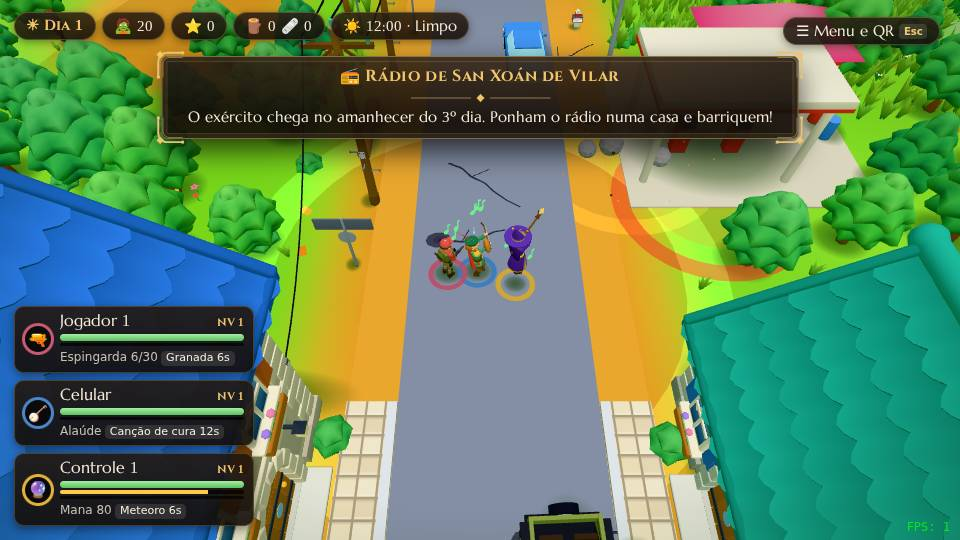
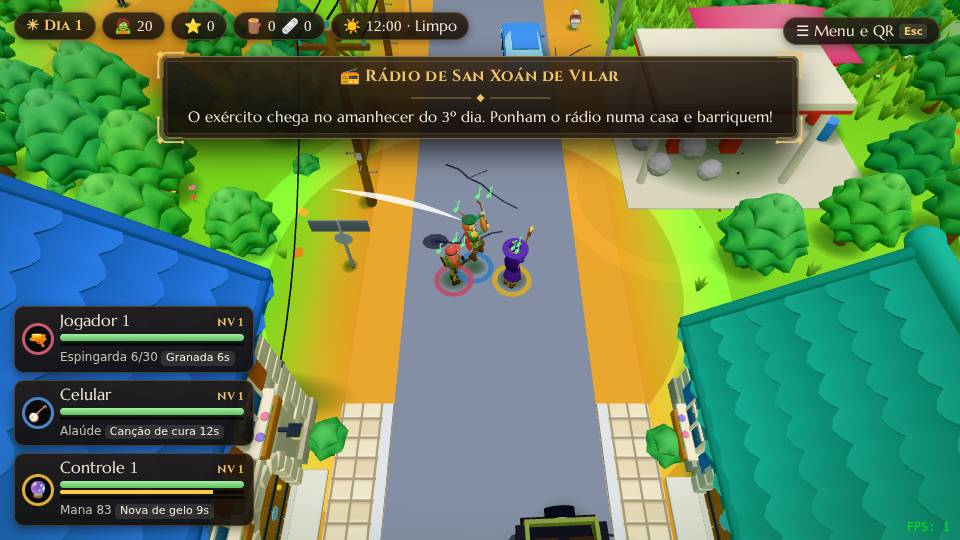
Entrar no meio da partida: nasce ao lado do grupo e o celular já vê a pausa
Antes nascia na largada (longe do grupo) e, com o menu aberto (onde fica o QR), o celular
ficava em "Entrando na sala…" até alguém fechar o menu. game.sync(id) manda o estado na hora.

diff --git a/src/games/survivor/rules/survival.js b/src/games/survivor/rules/survival.js
@@ -127,6 +127,9 @@ export function CreateGame(scene, colliders, net, hooks = {}) {
       dead: false, out: false, downT: 0, knocked: 0, chill: 0, marked: 0, vehicle: null, seat: null, pad: 0, hurtCar: 0, held: 0, struggle: 0, shoveCd: 0,
       input: { mx: 0, mz: 0, ax: 0, az: 0, run: 0 },
     }
+    // entrou no meio da partida: nasce ao lado de alguém do grupo (de pé, se houver), não na largada
+    const others = [...players.values()], buddy = others.find((o) => !o.dead) || others[0]
+    if (st.time > 0 && buddy) Object.assign(p, beside(buddy), { lv: buddy.lv || 0, gy: buddy.gy })
     InitClassState(p)
     levels.init(p)
     if (p.weapon) model.setWeapon(p.weapon)
@@ -178,15 +181,19 @@ export function CreateGame(scene, colliders, net, hooks = {}) {
     sfx('death', { x: p.x, z: p.z, cls: p.cls.id })
     fall.down(p)
   }
+  // lugar livre ao lado de alguém (mesmo andar)
+  function beside(o) {
+    for (let n = 0; n < 8; n++) {
+      const a = (n / 8) * Math.PI * 2, x = o.x + Math.sin(a) * 1.4, z = o.z + Math.cos(a) * 1.4
+      if (!Blocked(x, z, 0.5, o.lv || 0)) return { x, z }
+    }
+    return { x: o.x, z: o.z }
+  }
   // no amanhecer, quem está no chão volta ao lado de um aliado de pé (levantar ali mesmo: fall.js; o bardo levanta com a canção)
   function revive(p, list) {
     let best = list[0]
     for (const o of list) if ((o.x - p.x) ** 2 + (o.z - p.z) ** 2 < (best.x - p.x) ** 2 + (best.z - p.z) ** 2) best = o
-    let x = best.x, z = best.z
-    for (let n = 0; n < 8; n++) {
-      const a = (n / 8) * Math.PI * 2, tx = best.x + Math.sin(a) * 1.4, tz = best.z + Math.cos(a) * 1.4
-      if (!Blocked(tx, tz, 0.5, best.lv || 0)) { x = tx; z = tz; break }
-    }
+    const { x, z } = beside(best)
     Object.assign(p, { dead: false, out: false, downT: 0, hp: p.max * RU.fall.hp, x, z, vx: 0, vz: 0, jy: 0, vy: 0, lv: best.lv || 0, gy: best.gy, stamina: 100, tired: false, invulnT: RU.fall.invulnerable })
     p.model.hurt()
     fx.ring(x, best.gy || 0, z, 0x7aff9a, 0.2, 1.6, 0.7)
@@ -341,18 +348,21 @@ export function CreateGame(scene, colliders, net, hooks = {}) {
     // estado para os celulares
     if (net && (st.sync -= dt) <= 0) {
       st.sync = 0.15
-      for (const p of players.values()) {
-        if (p.id === 'local') continue
-        const inf = abilities.info(p)
-        const car = p.vehicle ? 2 : !p.dead && vehicles.nearest(p) ? 1 : 0
-        net.send(p.id, { t: 'state', hp: Math.ceil(p.hp), max: p.max, cls: `${p.cls.icon} ${p.cls.name} · Nv ${p.level}`, w: p.vehicle ? `${inf.text} · ${fuel.text(p.vehicle)}` : inf.text, btn: inf.buttons.map((b) => [b.l, +b.cd.toFixed(2)]), car, dead: p.dead, st: Math.round(p.stamina), time: Math.floor(st.time), score: st.score, held: p.held ? 1 : 0, rv: p.dead && !st.over ? (p.out ? -1 : Math.ceil(p.downT)) : 0, u: fall.label(p) || bars.label(p, true) || loot.label(p) || base.label(p) || bars.label(p) || fuel.label(p), inv: invText(), up: p.cards ? p.cards.map((u) => [`${u.icon} ${u.name}`, u.text]) : 0 })
-      }
+      for (const p of players.values()) if (p.id !== 'local') sendState(p)
     }
+  }
+  // o que o celular mostra (vida, botões, Usar, estoque, cartas…)
+  function sendState(p) {
+    const inf = abilities.info(p)
+    const car = p.vehicle ? 2 : !p.dead && vehicles.nearest(p) ? 1 : 0
+    net.send(p.id, { t: 'state', hp: Math.ceil(p.hp), max: p.max, cls: `${p.cls.icon} ${p.cls.name} · Nv ${p.level}`, w: p.vehicle ? `${inf.text} · ${fuel.text(p.vehicle)}` : inf.text, btn: inf.buttons.map((b) => [b.l, +b.cd.toFixed(2)]), car, dead: p.dead, st: Math.round(p.stamina), time: Math.floor(st.time), score: st.score, held: p.held ? 1 : 0, rv: p.dead && !st.over ? (p.out ? -1 : Math.ceil(p.downT)) : 0, u: fall.label(p) || bars.label(p, true) || loot.label(p) || base.label(p) || bars.label(p) || fuel.label(p), inv: invText(), up: p.cards ? p.cards.map((u) => [`${u.icon} ${u.name}`, u.text]) : 0 })
   }
 
   // estoque do grupo + base marcada (placar e celular)
   const invText = () => loot.text() + (base.at() ? '  📻' : '')
-  return { players, enemies, vehicles, loot, bars, base, siege, invText, st, clear, addPlayer, removePlayer, setInput, act, update, alive, zombies: () => horde.alive(), info: (p) => abilities.info(p), hurt, levels, fuel, compana, save, setCerco, cerco: cercoInfo }
+  // manda o estado na hora para um celular (ex.: entrou com o menu aberto: sem isso ficava em "Entrando na sala…")
+  const sync = (id) => { const p = players.get(id); if (net && p && id !== 'local') sendState(p) }
+  return { players, enemies, vehicles, loot, bars, base, siege, invText, st, clear, addPlayer, removePlayer, setInput, act, update, sync, alive, zombies: () => horde.alive(), info: (p) => abilities.info(p), hurt, levels, fuel, compana, save, setCerco, cerco: cercoInfo }
 }
 
 export const clock = (s) => `${String(Math.floor(s / 60)).padStart(2, '0')}:${String(Math.floor(s % 60)).padStart(2, '0')}`

diff --git a/src/games/survivor/main.js b/src/games/survivor/main.js
@@ -131,7 +131,10 @@ export async function LoadGame() {
     onJoin: (id, name) => {
       const slot = lobby.addPhone(id, name)
       if (slot < 0) return net.send(id, { t: 'kick', msg: 'Sala cheia' })
-      if (phase === 'playing') game.addPlayer(id, name, slot, lobby.entries().find((e) => e.id === id)?.choice) // entrada tardia: já nasce na partida
+      if (phase !== 'playing') return
+      game.addPlayer(id, name, slot, lobby.entries().find((e) => e.id === id)?.choice) // entrada tardia: já nasce na partida, ao lado do grupo
+      game.sync(id) // o controle aparece na hora (com o menu aberto o jogo não roda e o estado não sairia)
+      if (pause.isOpen()) net.send(id, { t: 'menu', ...pause.info(id) }) // entrou com o menu aberto: vê a pausa
     },
     onLeave: (id) => { lobby.removeId(id); game.removePlayer(id) },
     onLink: (id, on) => lobby.setLink(id, on), // ⚡ direto / 🌐 servidor na vaga do celular

diff --git a/CLAUDE.md b/CLAUDE.md
@@ -147,6 +147,8 @@ Teclado e celular usam exatamente o mesmo formato. Não mude sem pedir.
 - Celular → relay: `{t:'join', code, name}`, `{t:'in', mx, mz, ax, az, run}` a cada 33 ms, `{t:'act', a}`.
   Com a conexão direta aberta, `in` e `act` (e tudo da tela → celular) vão pelo WebRTC com o mesmo formato; o servidor só passa
   `rtc` (oferta/resposta) e `ice` (endereços). `ConnectHost` entrega ao jogo igual de onde vier (+ `onLink(id, direto)`).
+- Entrou no meio da partida (celular ou controle): nasce ao lado de alguém do grupo (`beside` em `survival.js`, o mesmo lugar do amanhecer);
+  `game.sync(id)` manda o `state` na hora e, com o menu aberto, o `main.js` manda o `menu` (com a pausa o jogo não roda e o estado não sairia).
 - Tela → celular: `{t:'state', hp, max, cls, w, btn, car, dead, st, time, score, held, rv, u, inv, up}` a cada 0,15 s; `hit`, `lobby`, `kick`, `closed`;
   `{t:'menu', open, vote}` = menu da partida aberto (pausa); `vote` = 0 ou `{ by, yes, need, total, left, mine }` (mine: 'yes'/'no'/'').
   `{t:'buzz', ms}` = vibrar ms (tiro, explosão…: `buzz()`/`impact()` em `survival.js`, números em `balance.js · juice.buzz`).
@@ -329,6 +331,9 @@ Decidido: a Etapa 3 vai em 3 PRs — F1 mover pastas + `npm run check` (+ cortar
 F2 estado global → instâncias com `reset()` + caches limpos por distância (medir antes) · F3 `balance.js` + `?bots=3`.
 
 ## Histórico de PRs
+- **entrar-no-meio** — achado no teste geral: quem entrava no meio nascia na largada, longe do grupo (no teste, a 150 m, sozinho à noite);
+  e o celular que entrava com o menu aberto (onde fica o QR) ficava em "Entrando na sala…" até fechar o menu. Agora nasce ao lado de alguém
+  e vê a pausa na hora. Smoke: um 3º celular entra com o menu aberto. Replay igual.
 - **teclas-de-teste** — achado no teste geral: N (+1 hora) funcionava no jogo publicado e pulava a noite (vencia o cerco sem lutar);
   K, T e `?bots=` também. Agora só no `npm run dev` (ou build com `VITE_TEST_KEYS=1`, o smoke). O menu só mostra "Teste" no dev. Replay igual.
 - **comando-unico** — pedido do dono: `npm start` sobe o servidor da sala e o jogo juntos. Correção: no Codespaces o QR não conectava

diff --git a/docs/TESTE-MANUAL.md b/docs/TESTE-MANUAL.md
@@ -44,6 +44,7 @@ Você precisa de **1 celular** e do teclado do PC. Para o item 12 (4 jogadores),
 | 30 | **Tela limpa e letra nova**: jogue alguns minutos | No alto, pílulas (dia, zumbis, pontos, estoque, hora) e "☰ Menu e QR" à direita. Embaixo, à esquerda, um cartão por jogador com vida, nível e uma linha só. Mensagens numa caixa escura com cantos dourados, no alto, sem cobrir os personagens e sem quebrar em várias linhas. Os números aparecem como 1 (não como I). Sem a linha de atalhos embaixo e sem o QR no canto | ☐ |
 | 31 | **Menu da partida**: Esc (ou ☰ Menu e QR, Start no controle, ☰ no celular) | Caixa "PAUSA" com o desenho das teclas (abas Teclado / Controle / Celular) e o QR. Um celular novo escaneia esse QR e entra na partida em andamento | ☐ |
 | 32 | **Votação para voltar**: com 2 ou mais jogadores, no menu toque "Voltar ao menu inicial" | Aparece "Voltar ao menu inicial?" com quem pediu e quantos votos faltam (maioria: 2 de 2, 2 de 3, 3 de 4). Teclado: Y/N · controle: A/B · celular: SIM/NÃO na tela. Com a maioria, volta ao menu; com "não" demais ou 20 s sem maioria, aparece "Votação recusada" e o jogo continua pausado | ☐ |
+| 33 | **Entrar no meio da partida**: ande para longe da largada, aperte Esc e entre com outro celular pelo QR do menu | O celular novo já mostra "PAUSADO". Ao continuar, o jogador novo está ao lado do grupo (não lá na largada) | |
 
 Para testar outra classe pelo teclado: Esc → Voltar ao menu inicial (jogando sozinho volta na hora) → no menu, aperte A ou D → Enter.
 
